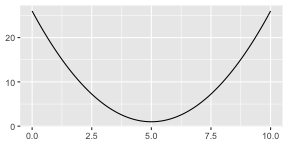
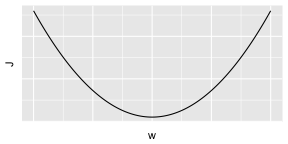
sc update

diff --git a/slide/20171115scorecard/index.html b/slide/20171115scorecard/index.html
@@ -620,13 +620,13 @@ dt_sel2=var_filter(train_woe,y="creditability",return_rm_reason=TRUE)
 
 单个样本的损失函数(loss function):
 `$$\ell(\hat{y},y)=-(y\ln{\hat{y}} + (1-y)\ln{(1-\hat{y})})$$`
-其中, `\(\hat{y}\)`为拟合值, `\(y\)` 为实际标签
-
 对于整个训练集的代价函数(cost function):
 `$$\begin{eqnarray}
 J(\boldsymbol{w},b)&amp;=&amp;\frac{1}{m}\sum_i{\ell(\hat{y}^{(i)},y^{(i)})}
 \\&amp;=&amp;-\frac{1}{m}\sum_i{[y^{(i)}\ln{\hat{y}^{(i)}}+(1-y^{(i)})\ln{(1-\hat{y}^{(i)})}]}
 \end{eqnarray}$$`
+其中, `\(\hat{y}\)` 为拟合值, `\(y\)`为实际标签, `\(m\)`为样本数量
+
 使用梯度下降(gradient descent), 找到合适的参数 `\((\boldsymbol{w}, b)\)` , 使得 `\(J(\boldsymbol{w},b)\)` 尽可能小:
 .pull-left[
 ![](index_files/figure-html/gradient_descent-1.png)&lt;!-- --&gt;
